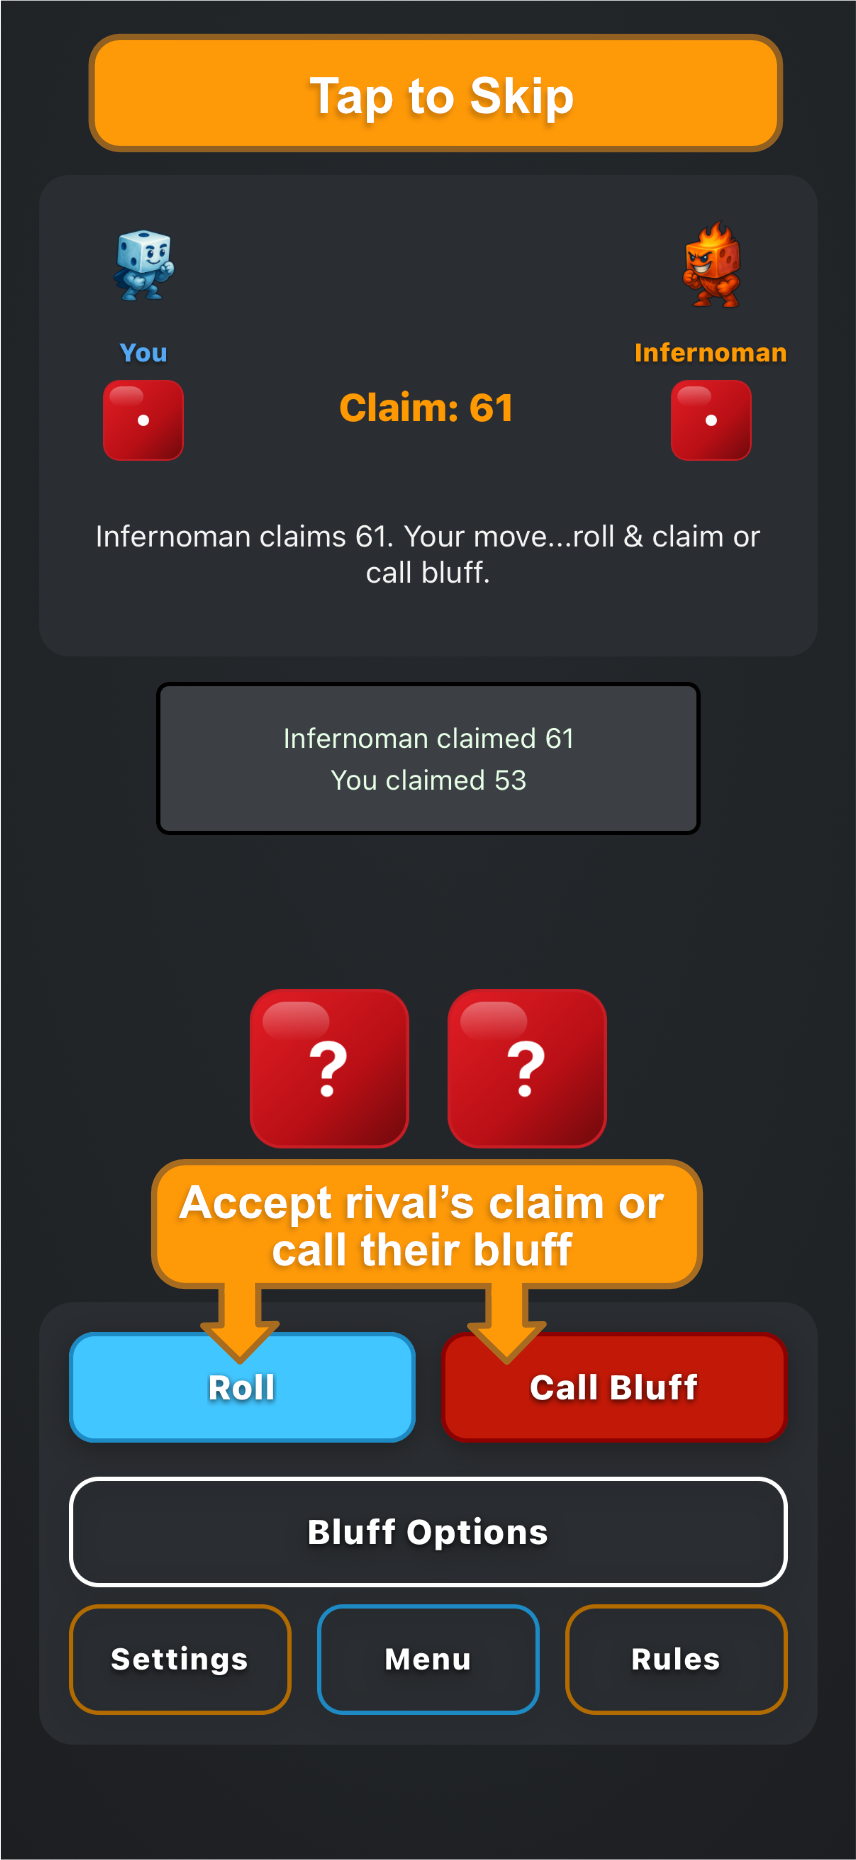
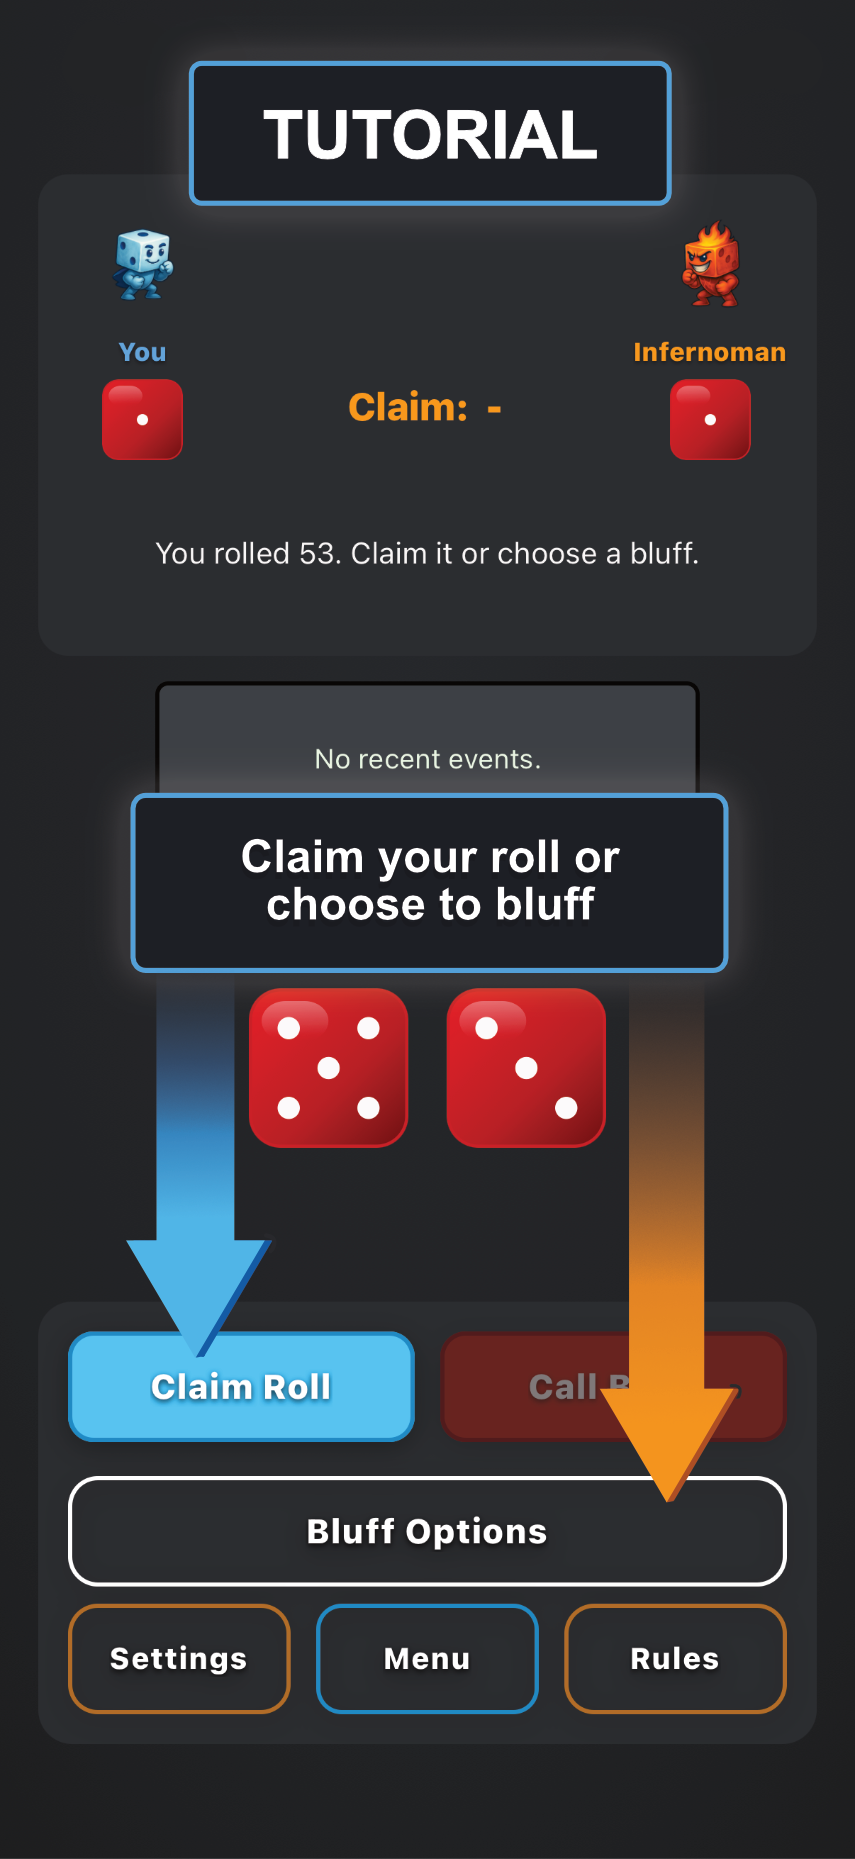
new tutorial

diff --git a/src/tutorial/ScreenshotTutorial.tsx b/src/tutorial/ScreenshotTutorial.tsx
@@ -15,6 +15,7 @@ const PAGES = [
   require('../../assets/images/tutorial/Page5.png'),
   require('../../assets/images/tutorial/Page6.png'),
   require('../../assets/images/tutorial/Page7.png'),
+  require('../../assets/images/tutorial/Page8.png'),
 ] as const;
 
 export function ScreenshotTutorial({ visible, onDone }: Props) {
